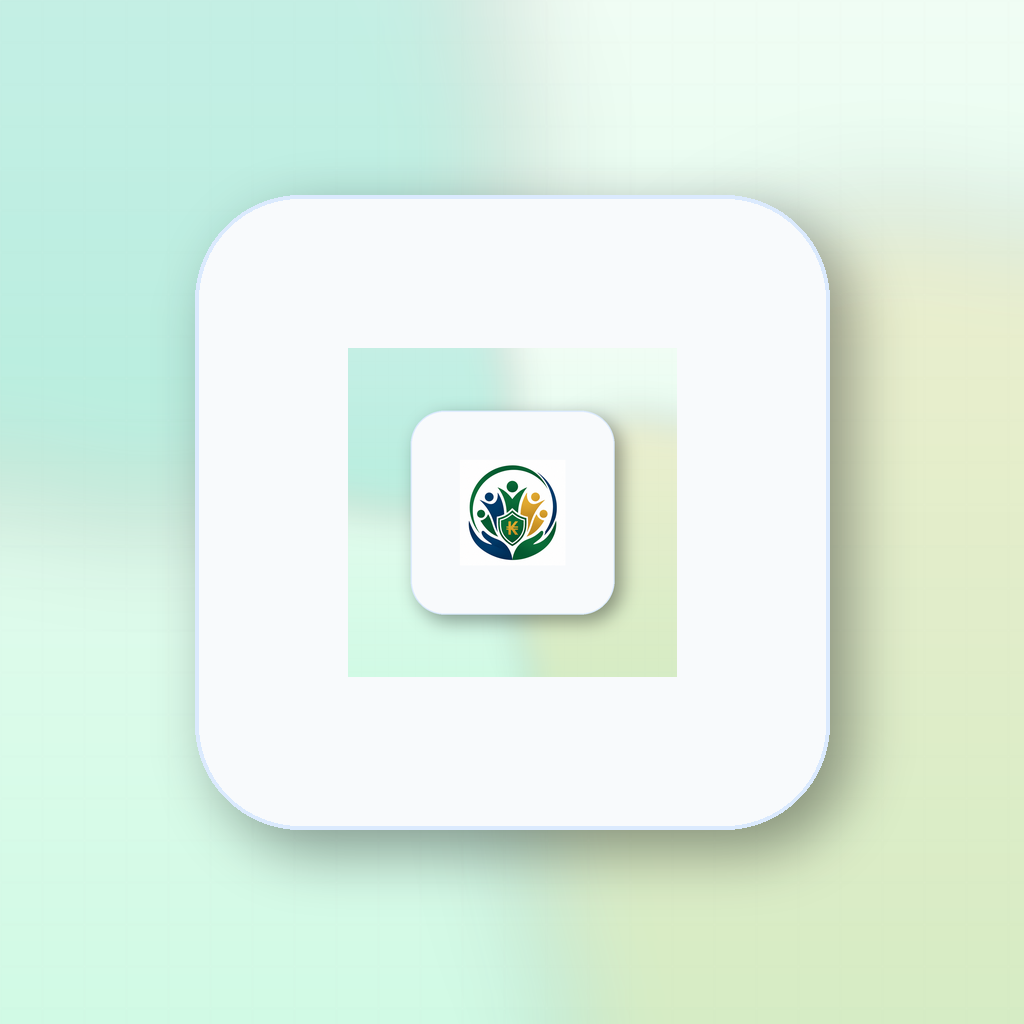
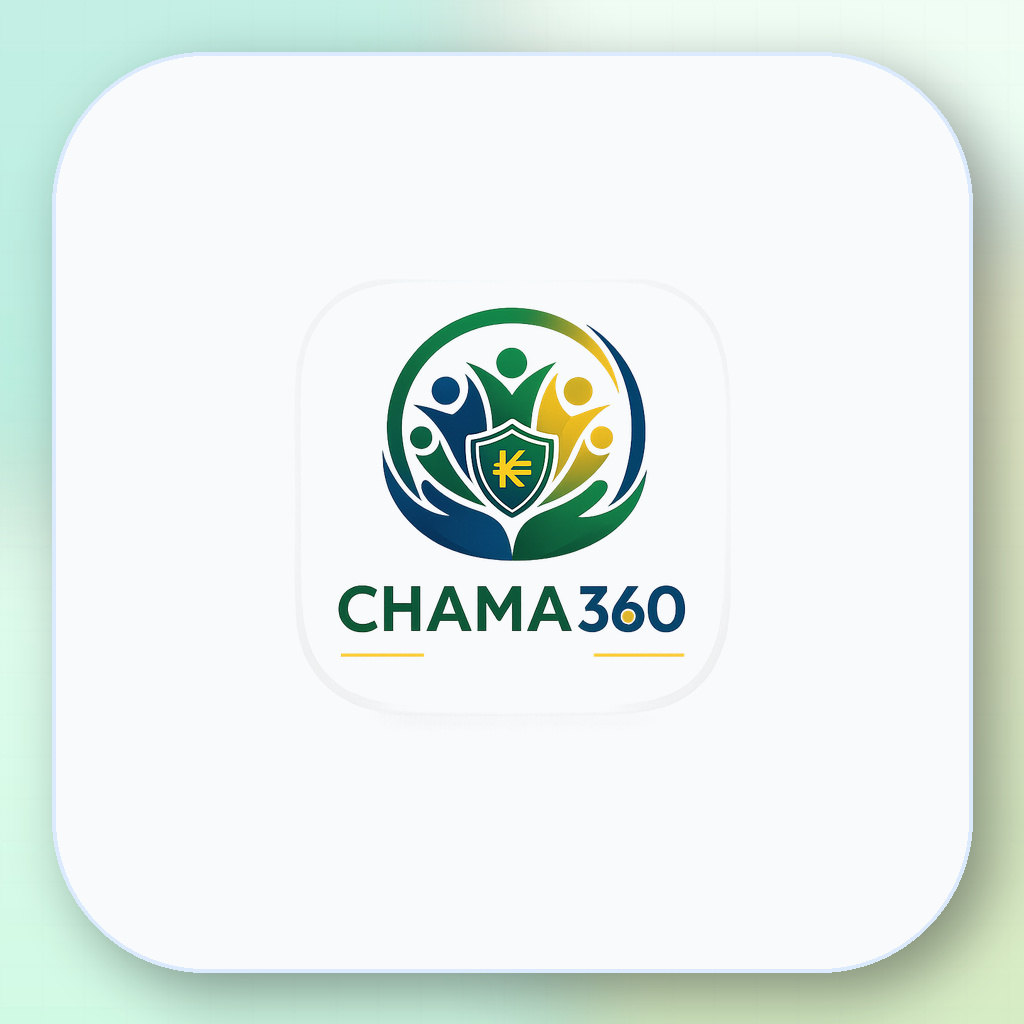
Prepare CHAMAZ360 Android 1.0.6 release

diff --git a/client/src/features/public/Legal.tsx b/client/src/features/public/Legal.tsx
@@ -2,7 +2,7 @@ import { Link } from 'react-router-dom';
 import { ROUTES } from '../../config/routes';
 import { PublicPageFrame } from '../../components/PublicPageFrame';
 
-const supportEmail = import.meta.env.VITE_SUPPORT_EMAIL || 'support@chama360.co.ke';
+const supportEmail = import.meta.env.VITE_SUPPORT_EMAIL || 'support@chamaz360.co.ke';
 const updated = '14 July 2026';
 
 export const Legal = () => (

diff --git a/client/src/features/utility/Help.tsx b/client/src/features/utility/Help.tsx
@@ -3,7 +3,7 @@ import { Link } from 'react-router-dom';
 import { Card } from '../../design-system';
 import { ROUTES } from '../../config/routes';
 
-const supportEmail = import.meta.env.VITE_SUPPORT_EMAIL || 'support@chama360.co.ke';
+const supportEmail = import.meta.env.VITE_SUPPORT_EMAIL || 'support@chamaz360.co.ke';
 
 export const Help = () => (
   <div className="space-y-6">

diff --git a/client/scripts/generate-mobile-assets.py b/client/scripts/generate-mobile-assets.py
@@ -8,8 +8,15 @@ from PIL import Image, ImageColor, ImageDraw, ImageFilter, ImageFont, ImageOps
 
 
 ROOT = Path(__file__).resolve().parents[1]
-LOGO_PATH = ROOT / "public" / "logo.png"
-ICON_PATH = ROOT / "public" / "brand-symbol.png"
+REPOSITORY_ROOT = ROOT.parent
+LOGO_PATH = next(
+    (path for path in (ROOT / "public" / "logo.png", REPOSITORY_ROOT / "CHAMA LOGO.png") if path.exists()),
+    ROOT / "public" / "logo.png",
+)
+ICON_PATH = next(
+    (path for path in (ROOT / "public" / "brand-symbol.png", REPOSITORY_ROOT / "CHAMA ICON.png") if path.exists()),
+    ROOT / "public" / "brand-symbol.png",
+)
 RES_DIR = ROOT / "android" / "app" / "src" / "main" / "res"
 MOBILE_ASSET_DIR = ROOT / "mobile-assets"
 
@@ -147,8 +154,10 @@ def make_card(target_size: int, plate_size: int, logo_scale: float, source_path:
 
 def make_icon(size: int) -> Image.Image:
     canvas = make_background((size, size), "#f0fdf4", "#d1fae5")
-    plate_size = int(size * CARD_RATIO)
-    card = make_card(size, plate_size, LOGO_RATIO, ICON_PATH)
+    # The official icon source already contains its own framed lockup, so keep it
+    # large enough to remain identifiable at legacy launcher-icon sizes.
+    plate_size = int(size * 0.9)
+    card = make_card(size, plate_size, 0.7, ICON_PATH)
     canvas.alpha_composite(card)
     return canvas
 
@@ -277,5 +286,7 @@ def generate_assets() -> None:
 if __name__ == "__main__":
     if not LOGO_PATH.exists():
         raise SystemExit(f"Missing logo source at {LOGO_PATH}")
+    if not ICON_PATH.exists():
+        raise SystemExit(f"Missing icon source at {ICON_PATH}")
     generate_assets()
     print("Generated Android icon and splash assets.")

diff --git a/client/README.md b/client/README.md
@@ -53,7 +53,7 @@ npm run preview
 - `npm run mobile:sync` - generate assets, build, and sync Android only
 - `npm run mobile:add:android` - add the Android platform again if needed
 - `npm run mobile:open:android` - open the Android project in Android Studio
-- `npm run mobile:release` - generate assets, build, sync, and assemble a signed release APK
+- `npm run mobile:release` - generate assets, embed the production HTTPS API, sync, and assemble a signed release APK
 
 ### Backend URL for Android
 
@@ -61,7 +61,7 @@ The packaged Android app cannot use browser localhost. Use one of these:
 
 - `VITE_ANDROID_API_URL=http://10.0.2.2:3000/api/v1` for the Android emulator
 - `VITE_ANDROID_API_URL=http://192.168.100.22:3000/api/v1` for a physical phone on the same Wi-Fi network
-- `VITE_API_URL=https://your-production-api.example/api/v1` for production builds
+- `VITE_API_URL=https://chamaz360.co.ke/api/v1` and `VITE_ANDROID_API_URL=https://chamaz360.co.ke/api/v1` for production builds
 
 If `VITE_ANDROID_API_URL` is not set, the app falls back to `VITE_API_URL`, then to `http://10.0.2.2:3000/api/v1`.
 
@@ -74,8 +74,8 @@ npm run mobile:build:android
 ### Native notes
 
 - The app uses `HashRouter`, which works well inside Capacitor.
-- The Android manifest allows cleartext traffic so the emulator can reach a local HTTP backend during development.
-- The release build uses a local keystore stored in `client/android/release.keystore` and reads credentials from `client/android/keystore.properties`.
+- Release builds disable cleartext traffic. The `lanTest` build type permits it for controlled local-network testing.
+- The release build uses the ignored `client/android/chamaz360-production.jks` keystore and reads credentials from the ignored `client/android/keystore.properties` file.
 
 ### Typical Android workflow
 
@@ -94,9 +94,11 @@ npm run mobile:build:android
 
 ### Release workflow
 
-1. Update `client/android/keystore.properties` if you want to change the local signing credentials.
+1. Confirm that `client/android/keystore.properties` points to the original release keystore used to sign the installed app.
 2. Run `npm run mobile:release`.
 3. Find the signed APK under `client/android/app/build/outputs/apk/release/`.
+
+The release script always embeds `https://chamaz360.co.ke/api/v1`. Development builds made with `build:android` or `mobile:build:android` may continue to use `.env.android` for emulator or LAN APIs.
 
 ### Android auto-update
 

diff --git a/docs/android-direct-distribution.md b/docs/android-direct-distribution.md
@@ -6,14 +6,14 @@ CHAMA360 Android releases are distributed as signed APKs from the official HTTPS
 
 1. Create a production Android keystore and keep encrypted offline backups.
 2. Copy `client/android/keystore.properties.example` to `client/android/keystore.properties` and enter the real values. Neither file nor the keystore may be committed.
-3. Configure `client/.env.production` with HTTPS `VITE_API_URL` and `VITE_ANDROID_API_URL` values.
+3. Confirm the release build script embeds `https://chamaz360.co.ke/api/v1` for both `VITE_API_URL` and `VITE_ANDROID_API_URL`.
 4. Host the final signed APK at a stable HTTPS URL on the official domain.
 5. Configure the backend mobile-release environment variables documented in `.env.example`.
 
 ## Release procedure
 
 1. Increase `versionCode`, `versionName`, and the client package version.
-2. Build and sign the release APK with `npm --prefix client run mobile:release`.
+2. Build and sign the release APK with `npm --prefix client run mobile:release`. This command uses the fixed production API; emulator and LAN settings remain confined to development builds.
 3. Generate metadata:
 
    ```text

diff --git a/docs/proxy-and-production-network.md b/docs/proxy-and-production-network.md
@@ -21,7 +21,7 @@ requires `TRUST_PROXY_HOPS=2` only when both external proxy hops forward the cli
 Production Docker builds require `VITE_ANDROID_API_URL` to be supplied as an explicit `https://` URL. The production Compose file intentionally has no public-IP fallback:
 
 ```powershell
-$env:VITE_ANDROID_API_URL = 'https://api.example.com/api/v1'
+$env:VITE_ANDROID_API_URL = 'https://chamaz360.co.ke/api/v1'
 docker compose -f docker-compose.prod.yml build web
 ```
 
